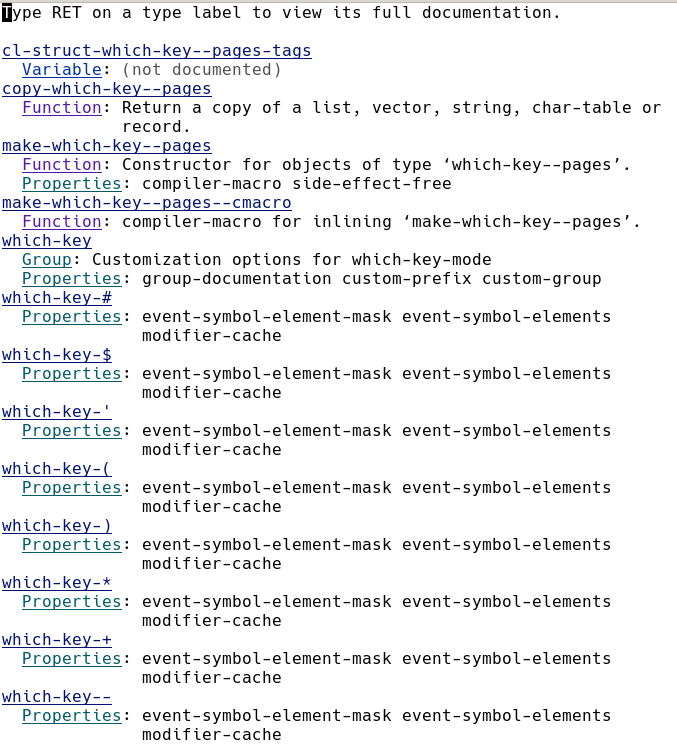
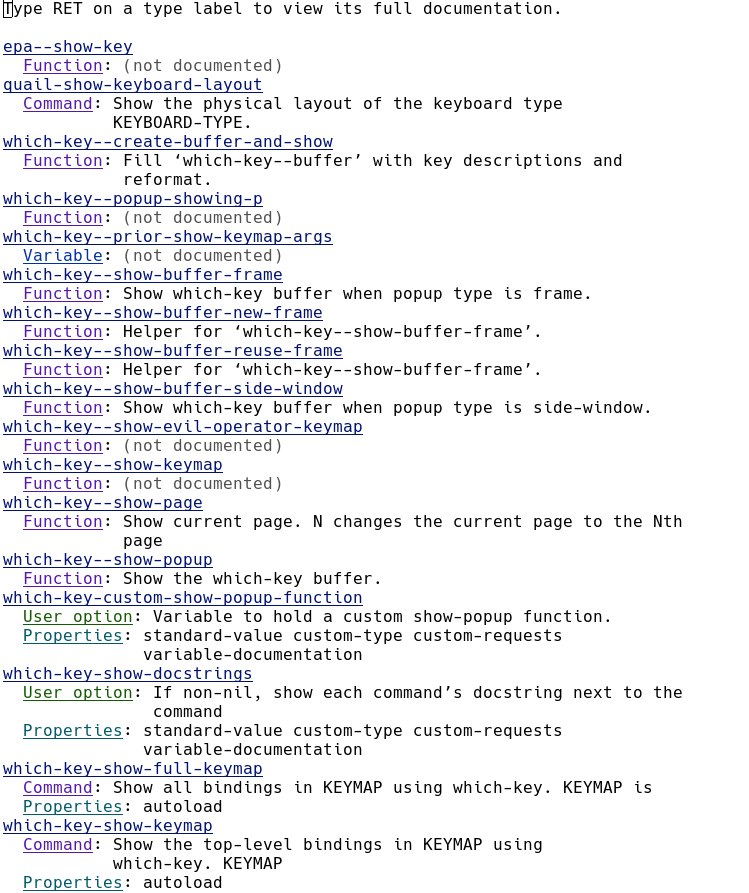
added chapter 4 and changed screenshot

Changed region(s): [[0.0, 0.0, 1.0, 1.0], [0.8375, 0.2775, 0.9306, 0.3083]]

diff --git a/docs/04-using-documentation.md b/docs/04-using-documentation.md
@@ -1,0 +1,69 @@
+# On using documentation
+
+Emacs calls itself an 'extenslibe, self-documenting' editor. I guess at this point we figured out why it calls itself extensible but I did not talk that much about the 'self-documenting' part. Shamefully so, because the documentation and manuals provided with, and even accessible from within, Emacs is really impressive. On top of that I think knowing how to read and use documentation is a key skill everyone should have.
+
+More that I am willing to admit I find myself looking things up via search engine and reading completely outdated information instead of just consulting the official documentation. I understand that sometimes the documentation is hard to search in but with Emacs this is not the case.
+
+# The builtin manual
+
+First off: All commands regarding any form of help have the prefix `C-h`.
+
+To show the builtin Emacs manual for your specific version, press `C-h r`. This is the same manual one would see when going to the [Emacs website](https://www.gnu.org/software/emacs/manual/html_mono/emacs.html).
+
+You can use normal Emacs movement key chords in here and press `RET` on a link (manual topic) to follow it. To get back to the parent topic you can press `o`. To go to the last shown page press `l`.
+
+But, of course, this is not the fancy 'self-documenting' functionallity I am talking about. There is so much more!
+
+# Looking up variables, functions, symbols and much more
+
+When you are once again deep inside an `init.el` on GitHub and want to know what all these variables the creator of said config is using for customization, you can press `C-h v` to look up the definition of that variable, same for functions (`C-h f`) and symbols (`C-h S`).
+
+But again, there is more! Let's say you forgot what exactly a specific variable inside your config does, you can move to it and then press `C-h v`. Emacs will then suggest the variable under point.
+
+To see all possible things you can look up, press `C-h ?`. This will open a list of options in a new buffer.
+
+But to give you some example of what you can look up with these commands, I will provide more examples:
+
+When you know or heard about a specific command but don't know which key cord invokes it, you can simply use `C-h w` and Emacs will tell you. On the contrary, there is `C-h c` which shows you the command invoked by the given key sequence of which you get the full documentation of when using `C-h k`.
+
+If you want to know more about a specifc package, is it builtin or external, you can search for it with `C-h i` which brings you to the documentation browser. In here you can find documentation on all the packages, Emacs basics, and much more. Also, whenever you install a package from `(M)ELPA` which brings a manual it places this manual inside a file called `dir`. The path to this file is then added to the variable `Info-directory-list`. The browser then adds all these `dir` files to the top of the info page. Sadly, it seems that only a small number of packages actually include a `dir` file.
+
+With `C-h m` you get the documentation of the current minor modes and major mode. This is really helpful, especially if you installed a package which does not provide a `dir` file like explained above. In here you can find out about all the key bindings inherent to the current major/minor mode(s).
+
+# Apropos
+
+But what if you don't actually know what you are looking for? What if you can only describe what you want? There is a command for that: `Apropos`.
+
+With `M-x apropos` you have a full-text search at your proposol to search for words, lists of words or even regular expressions. It will find any (interactive) function or variable matching your search query and will show you a list of all matches in a new buffer - which is in the `Apropos` major mode.
+
+You can use different variations of the apropos command to narrow the search. There are `apropos-command`, `apropos-documentation`, `apropos-mode`, `apropos-library` and a few
+others.
+
+To show off a bit what we have learned by now, let's assume we know there is a package that shows possible keys after typing a key chord, but we don't know what its name is. So we type `M-x apropos RET show key`.
+
+You will see something like that:
+
+![Apropos buffer for which-key](images/apropos-which-key.png)
+
+Right, it's `which-key`! We found the package we were looking for without searching the internet and hoping to find the answer we were looking for in a 5 year old reddit thread or something (okay, in the case of `which-key` it would be not that hard, but still).
+
+Now, just out of curiosity let's see what we can do in the `Apropos` major mode. We learned that one can get info about the current modes by pressing `C-h m`. This will look something like that:
+
+![Help buffer for which-key-mode](images/which-key-mode-help.png)
+
+Frankly, there is not that much we can do in here, but it also tells us that when starting the `Apropos` major mode, it runs the `apropos-mode-hook`. This makes it possible to activate specific minor modes or set a variable just in this mode.
+
+This might not be that helpful in `Apropos`, but there are also hooks for e.g. `prog-mode`, a specific mode that activates whenever Emacs opens a 'programing buffer'. Here I for example start `hl-line-mode`, which highlights the current line and `display-line-numbers-mode`, which shows the current line number and all the other lines relatively to it. I also want Emacs to show matching parentheses when point is near it. I don't want these modes inside 'prose-writing buffer', so I only activate it when I am coding.
+
+This is the code block I am using for that:
+
+```
+(add-hook 'prog-mode-hook
+          (lambda ()
+            (hl-line-mode t)
+	    (show-paren-mode 1)
+            (setq display-line-numbers-type 'relative)
+            (display-line-numbers-mode 1)))
+```
+
+I know this derailed a bit, but I wanted to show you that when exploring something in Emacs you can find out about a totally different function or variable you did not know about before. And all this inside Emacs! You also think that's great, right?
